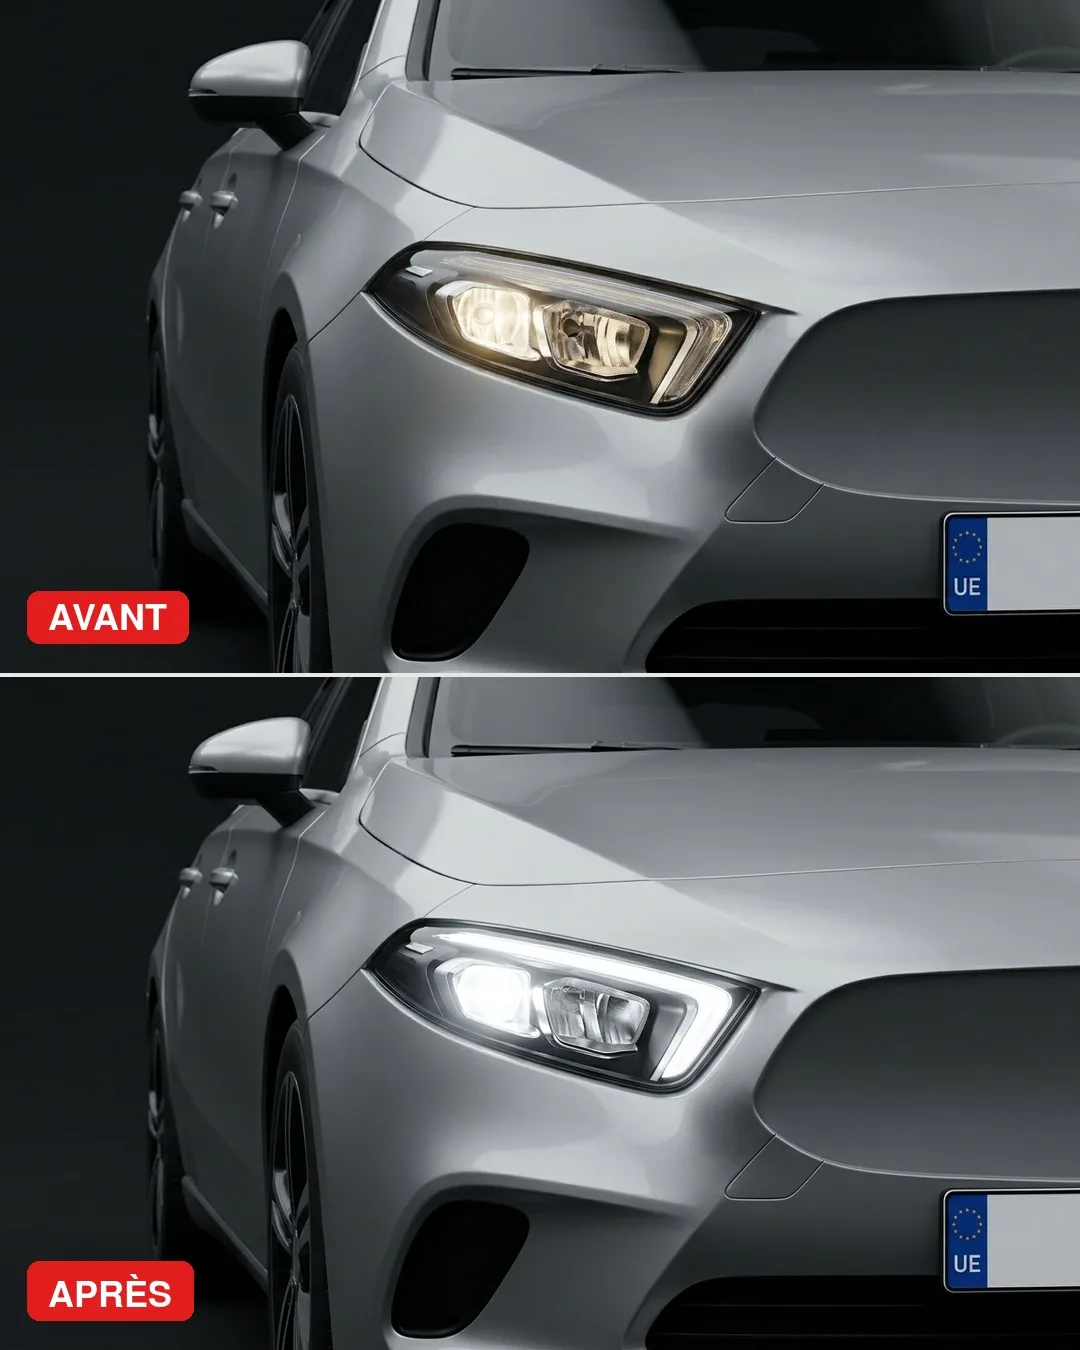
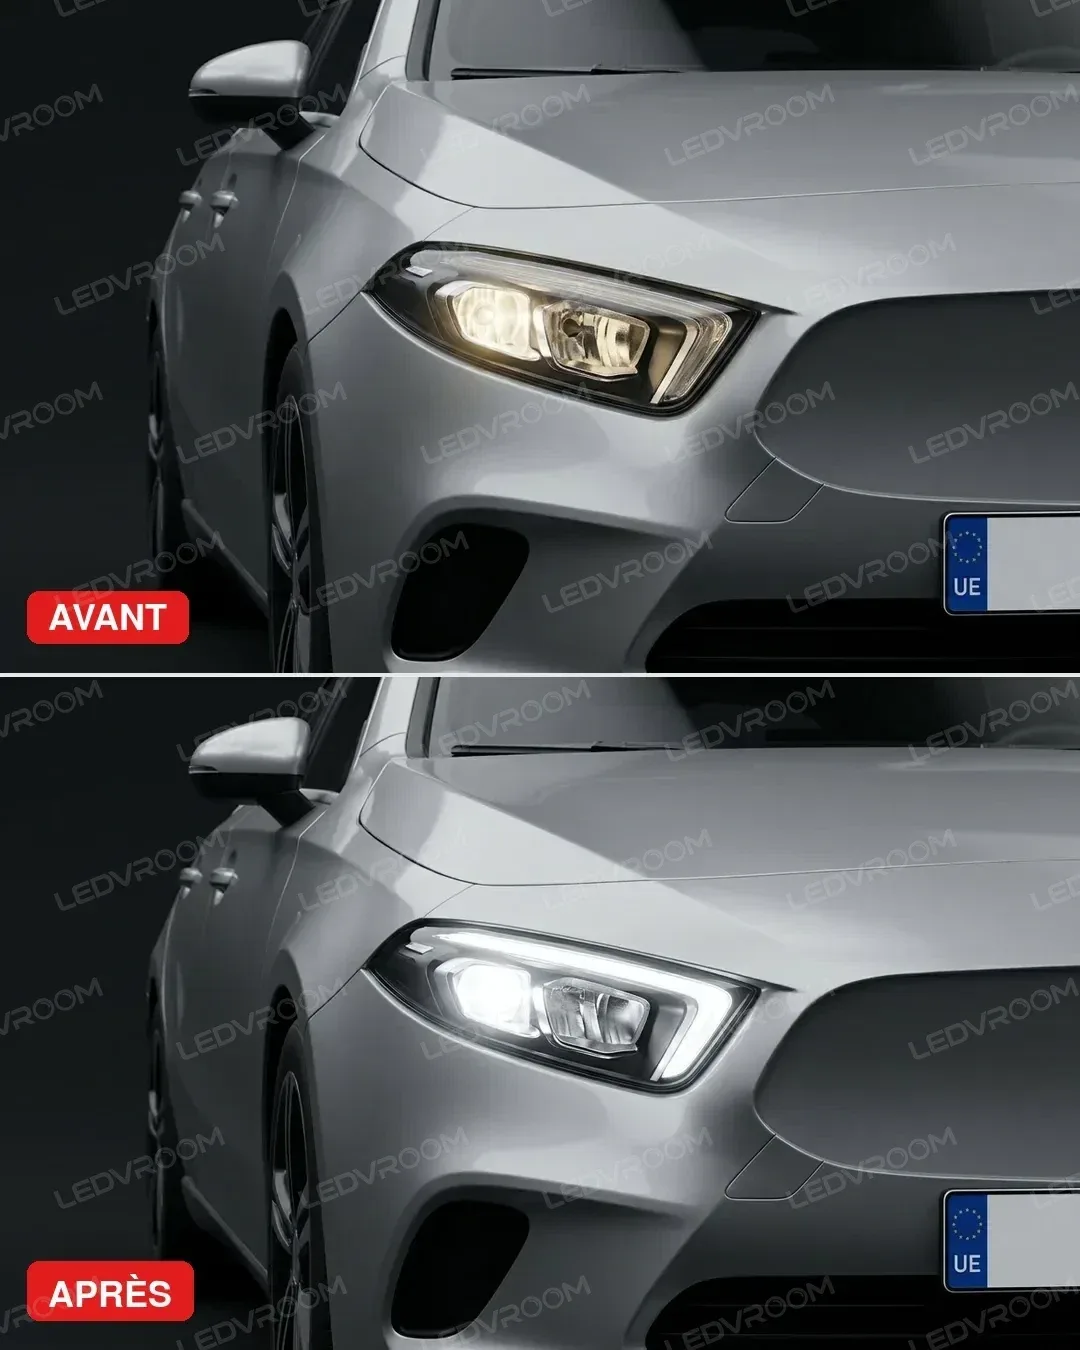
Filigrane LEDVROOM sur les rendus et les visuels sur voiture
Le logo blanc répété en diagonale, à 13 %, sur toute l'image : un
détourage ou un recadrage ne l'enlève pas. Posé sur les rendus (avant /
après, véhicule, gros plan) et les visuels types sur voiture, jamais sur
les photos d'ampoules. « Copyright LEDVROOM » ajouté aux infos du fichier.

- Rendus déjà stockés : filigranés un par un en arrière-plan, puis toutes
  les demi-heures et à chaque ajout depuis le back-office.
- Visuels types : régénérés depuis leurs originaux, gardés hors du dossier
  public (scripts/filigraner-images-types.ts).
- Google Shopping refuse les images filigranées : le flux ne part plus
  qu'avec les photos produit.

Claude-Session: https://claude.ai/code/session_01LngNKaiXAWijw9s65MmzDA

diff --git a/src/lib/storage/filigraner-existants.ts b/src/lib/storage/filigraner-existants.ts
@@ -1,0 +1,119 @@
+import type { PrismaClient } from '@prisma/client'
+import { allegerImage } from './alleger'
+import { driverName, putFile } from './driver'
+
+/**
+ * Pose le filigrane LEDVROOM sur les rendus déjà stockés, un par un.
+ *
+ * Concerne les médias rattachés à une fiche comme « rendu » ou « montage »
+ * (avant / après, véhicule complet, gros plan) : ce sont les images que l'on
+ * veut protéger. Les photos d'ampoules (« le produit », « le contenu du kit »)
+ * n'en reçoivent pas.
+ *
+ * Même façon de faire que l'allègement : la nouvelle version (et ses versions
+ * 480 / 960 px) est déposée à côté, puis la fiche du média pointe dessus, et
+ * `filigraneAt` note que c'est fait. Rejouable, et lancé régulièrement
+ * (instrumentation.ts) pour prendre aussi les rendus ajoutés depuis.
+ */
+function empreinteDeLaCle(cle: string): string | null {
+  return /-([0-9a-f]{12})\.[^/]*$/.exec(cle)?.[1] ?? null
+}
+
+export async function filigranerRendus(
+  prisma: PrismaClient,
+  { pauseMs = 2000, journal = console.log }: { pauseMs?: number; journal?: (l: string) => void } = {},
+): Promise<{ filigranes: number; echecs: number }> {
+  const bilan = { filigranes: 0, echecs: 0 }
+  if (driverName() !== 's3') return bilan
+
+  const echoues = new Set<string>()
+  for (;;) {
+    const media = await prisma.media.findFirst({
+      where: {
+        id: { notIn: [...echoues] },
+        filigraneAt: null,
+        url: { startsWith: 'https://' },
+        mimeType: { in: ['image/jpeg', 'image/png', 'image/webp'] },
+        products: { some: { role: { in: ['RESULT', 'INSTALL'] } } },
+      },
+      orderBy: { createdAt: 'asc' },
+      select: { id: true, url: true, storageKey: true, mimeType: true },
+    })
+    if (!media) break
+
+    try {
+      const reponse = await fetch(media.url, { signal: AbortSignal.timeout(30_000) })
+      if (!reponse.ok) throw new Error(`HTTP ${reponse.status}`)
+      const origine = Buffer.from(await reponse.arrayBuffer())
+      const extension = media.mimeType === 'image/png' ? 'png' : media.mimeType === 'image/webp' ? 'webp' : 'jpg'
+      const image = await allegerImage(origine, media.mimeType, extension, { filigrane: true })
+      const dossier = media.storageKey.includes('/')
+        ? media.storageKey.slice(0, media.storageKey.lastIndexOf('/'))
+        : 'medias'
+      const depose = await putFile({
+        bytes: image.bytes,
+        mimeType: image.mimeType,
+        extension: image.extension,
+        prefix: dossier,
+        // L'empreinte de l'original reste dans la clé : c'est elle qui permet
+        // aux scripts de pose de reconnaître un rendu déjà déposé.
+        ...(empreinteDeLaCle(media.storageKey)
+          ? { empreinte: empreinteDeLaCle(media.storageKey) as string }
+          : { empreinteDe: origine }),
+        variantes: image.variantes,
+      })
+      const maj = await prisma.media.updateMany({
+        where: { id: media.id, storageKey: media.storageKey },
+        data: {
+          url: depose.url,
+          storageKey: depose.key,
+          mimeType: depose.mimeType,
+          sizeBytes: depose.sizeBytes,
+          filigraneAt: new Date(),
+          ...(image.width ? { width: image.width, height: image.height } : {}),
+        },
+      })
+      if (maj.count === 1) bilan.filigranes++
+    } catch (error) {
+      echoues.add(media.id)
+      bilan.echecs++
+      console.error(`[médias] filigrane impossible pour ${media.id}`, error)
+    }
+
+    if ((bilan.filigranes + bilan.echecs) % 50 === 0) {
+      journal(`[médias] ${bilan.filigranes} rendu(s) filigrané(s)`)
+    }
+    await new Promise((fin) => setTimeout(fin, pauseMs))
+  }
+  return bilan
+}
+
+/*
+  Un seul passage à la fois dans ce processus : la reprise périodique et un
+  dépôt depuis le back-office peuvent le demander en même temps.
+*/
+let enCours: Promise<unknown> | null = null
+let redemande = false
+
+/** Lance un passage en arrière-plan (sans attendre), ou en redemande un après celui en cours. */
+export function planifierFiligrane(): void {
+  if (process.env.FILIGRANE_MEDIAS === 'off') return
+  if (enCours) {
+    redemande = true
+    return
+  }
+  enCours = (async () => {
+    try {
+      do {
+        redemande = false
+        const { prisma } = await import('../db')
+        const bilan = await filigranerRendus(prisma)
+        if (bilan.filigranes + bilan.echecs > 0) console.log('[médias] filigrane', bilan)
+      } while (redemande)
+    } catch (error) {
+      console.error('[médias] filigrane interrompu', error)
+    } finally {
+      enCours = null
+    }
+  })()
+}

diff --git a/src/lib/storage/alleger.ts b/src/lib/storage/alleger.ts
@@ -38,25 +38,44 @@ export async function allegerImage(
   bytes: Buffer,
   mimeType: string,
   extension: string,
-  { forcer = false }: { forcer?: boolean } = {},
+  {
+    forcer = false,
+    filigrane = false,
+  }: {
+    forcer?: boolean
+    /** Pose le filigrane LEDVROOM (lib/storage/filigrane.ts) sur la photo et ses versions réduites. */
+    filigrane?: boolean
+  } = {},
 ): Promise<ImageAllegee> {
   const photo = mimeType === 'image/jpeg' || mimeType === 'image/png' || mimeType === 'image/webp'
-  if (!photo || (!forcer && bytes.length <= SEUIL_ALLEGEMENT)) return { bytes, mimeType, extension }
+  if (!photo) return { bytes, mimeType, extension }
+  if (filigrane) {
+    const { filigraner } = await import('./filigrane')
+    bytes = await filigraner(bytes)
+    forcer = true
+  }
+  if (!forcer && bytes.length <= SEUIL_ALLEGEMENT) return { bytes, mimeType, extension }
 
   try {
     const { default: sharp } = await import('sharp')
-    const { data, info } = await sharp(bytes, { limitInputPixels: 60_000_000 })
-      .rotate()
-      .resize({ width: COTE_MAX, height: COTE_MAX, fit: 'inside', withoutEnlargement: true })
+    const { EXIF_LEDVROOM } = await import('./filigrane')
+    const signer = <T extends import('sharp').Sharp>(s: T): T => (filigrane ? (s.withExif(EXIF_LEDVROOM) as T) : s)
+    const { data, info } = await signer(
+      sharp(bytes, { limitInputPixels: 60_000_000 })
+        .rotate()
+        .resize({ width: COTE_MAX, height: COTE_MAX, fit: 'inside', withoutEnlargement: true }),
+    )
       .webp({ quality: 82, effort: 2 })
       .toBuffer({ resolveWithObject: true })
     // Un PNG à aplats peut ressortir plus lourd en WebP : on garde le plus léger.
     if (data.length >= bytes.length && !forcer) return { bytes, mimeType, extension }
+    // (Avec le filigrane, `forcer` est vrai : on ne revient jamais à l'original sans lui.)
     const variantes = await Promise.all(
       LARGEURS_VARIANTES.map(async (largeur) => ({
         largeur,
-        bytes: await sharp(data)
-          .resize({ width: largeur, height: largeur, fit: 'inside', withoutEnlargement: true })
+        bytes: await signer(
+          sharp(data).resize({ width: largeur, height: largeur, fit: 'inside', withoutEnlargement: true }),
+        )
           .webp({ quality: 78, effort: 2 })
           .toBuffer(),
       })),
@@ -70,6 +89,8 @@ export async function allegerImage(
       variantes,
     }
   } catch (error) {
+    // Un échec avec filigrane remonte : rendre la photo sans lui la publierait nue.
+    if (filigrane) throw error
     console.error('[stockage] allègement impossible, fichier gardé tel quel', error)
     return { bytes, mimeType, extension }
   }

diff --git a/src/lib/storage/filigrane.ts b/src/lib/storage/filigrane.ts
@@ -1,0 +1,52 @@
+import { readFile } from 'node:fs/promises'
+import path from 'node:path'
+
+/**
+ * Filigrane LEDVROOM : le logo blanc répété en diagonale sur toute l'image,
+ * à 13 % (choix de l'exploitant, 10 novembre 2026).
+ *
+ * Dans un coin, un filigrane part avec un recadrage ou un détourage de la
+ * voiture sur fond blanc ; répété sur toute l'image, il recouvre aussi le feu
+ * et la carrosserie. Il n'empêche pas une copie, il la rend peu utile.
+ *
+ * Posé sur les rendus (avant / après, véhicule, gros plan), jamais sur les
+ * photos d'ampoules : la boîte LEDVROOM y figure déjà, et Google Shopping
+ * refuse les images filigranées.
+ *
+ * Le motif (`public/marque/filigrane-motif.png`) est dessiné pour une image de
+ * 1 376 px de large, au double de sa taille pour rester net : il est remis à
+ * l'échelle de chaque image, puis répété.
+ */
+const LARGEUR_DE_REFERENCE = 1376
+const ECHELLE_DU_MOTIF = 2
+
+let motif: Promise<Buffer> | null = null
+function lireMotif(): Promise<Buffer> {
+  motif ??= readFile(path.join(process.cwd(), 'public', 'marque', 'filigrane-motif.png'))
+  return motif
+}
+
+/** En ASCII : l'EXIF ne garde pas les caractères accentués ni « © ». */
+export const COPYRIGHT = 'Copyright LEDVROOM - ledvroom.com'
+export const EXIF_LEDVROOM = { IFD0: { Copyright: COPYRIGHT, Artist: 'LEDVROOM' } }
+
+export async function filigraner(bytes: Buffer): Promise<Buffer> {
+  const { default: sharp } = await import('sharp')
+  const image = sharp(bytes, { limitInputPixels: 60_000_000 }).rotate()
+  // Après `rotate()`, une photo prise de côté échange largeur et hauteur :
+  // on lit donc la taille sur l'image redressée.
+  const base = await image.toBuffer({ resolveWithObject: true })
+  const W = base.info.width
+  const echelle = W / LARGEUR_DE_REFERENCE / ECHELLE_DU_MOTIF
+  const brut = await lireMotif()
+  const meta = await sharp(brut).metadata()
+  const tuile = await sharp(brut)
+    .resize(Math.max(8, Math.round((meta.width ?? 621) * echelle)))
+    .png()
+    .toBuffer()
+  return sharp(base.data)
+    .composite([{ input: tuile, tile: true, blend: 'over' }])
+    .withExif(EXIF_LEDVROOM)
+    .webp({ quality: 90, effort: 2 })
+    .toBuffer()
+}

diff --git a/src/lib/images-types.ts b/src/lib/images-types.ts
@@ -24,8 +24,9 @@
  *   « Visuel d'illustration ») et légende « véhicule non représentatif ».
  * - **Moto : seulement la photo des ampoules.** Les avant / après et la
  *   route montrent une voiture : jamais sur une fiche moto.
- * - **Google Shopping ne reçoit jamais l'avant / après** (texte « AVANT /
- *   APRÈS » sur l'image, refusé par Google) : voir `imagesTypesPourLeFlux`.
+ * - **Google Shopping ne reçoit que la photo du produit** : les visuels sur
+ *   voiture portent le filigrane LEDVROOM (et l'avant / après du texte), que
+ *   Google refuse. Voir `imagesTypesPourLeFlux`.
  *
  * Les fichiers sont dans `public/images-types/`.
  */
@@ -175,8 +176,9 @@ export function couvertureType(produit: ProduitMinimal): { url: string; alt: str
 
 /** Pour Google Shopping : seulement les images sans texte, la photo produit d'abord. */
 export function imagesTypesPourLeFlux(produit: ProduitMinimal): string[] {
+  // Seulement la photo du produit : les visuels sur voiture portent le
+  // filigrane LEDVROOM, refusé par Google Shopping.
   return imagesTypes(produit)
-    .filter((image) => image.sansTexte)
-    .sort((a, b) => (a.role === 'PRODUCT' ? -1 : b.role === 'PRODUCT' ? 1 : 0))
+    .filter((image) => image.sansTexte && image.role === 'PRODUCT')
     .map((image) => image.url)
 }

diff --git a/src/app/flux/google-shopping.xml/route.ts b/src/app/flux/google-shopping.xml/route.ts
@@ -42,7 +42,9 @@ const SELECTION = {
     select: { category: { select: { name: true, parent: { select: { name: true } } } } },
   },
   media: {
-    where: { role: { in: ['RESULT', 'PRODUCT', 'KIT_CONTENT'] as Array<'RESULT' | 'PRODUCT' | 'KIT_CONTENT'> } },
+    // Pas les rendus : ils portent le filigrane LEDVROOM, que Google Shopping
+    // refuse (lib/storage/filigrane.ts). Le flux part avec les photos produit.
+    where: { role: { in: ['PRODUCT', 'KIT_CONTENT'] as Array<'PRODUCT' | 'KIT_CONTENT'> } },
     orderBy: { position: 'asc' as const },
     select: { role: true, media: { select: { url: true } } },
   },
@@ -120,9 +122,8 @@ function lirePaquet(apres: string | null) {
 
 function versArticle(produit: ProduitLu, periode: Periode | undefined): ArticleFlux {
   const categorie = produit.categories[0]?.category
-  // La couverture d'abord, comme partout ailleurs sur le site : le rendu
-  // (feu allumé sur le véhicule), puis le produit, puis le contenu du kit.
-  const ordre = ['RESULT', 'PRODUCT', 'KIT_CONTENT']
+  // Le produit, puis le contenu du kit (les rendus filigranés n'y vont pas).
+  const ordre = ['PRODUCT', 'KIT_CONTENT']
   const images = [...produit.media]
     .sort((a, b) => ordre.indexOf(a.role) - ordre.indexOf(b.role))
     .map((entree) => entree.media.url)

diff --git a/scripts/filigraner-images-types.ts b/scripts/filigraner-images-types.ts
@@ -1,0 +1,31 @@
+/**
+ * Pose le filigrane LEDVROOM sur les visuels types sur voiture
+ * (`public/images-types/`, sauf les photos `produit-*`).
+ *
+ * Les originaux sans filigrane sont gardés dans `assets/images-types-originaux/`
+ * (hors du dossier public) : le script repart toujours d'eux, on peut donc le
+ * relancer sans doubler le filigrane.
+ *
+ *   npx tsx scripts/filigraner-images-types.ts
+ */
+import { readdir, readFile, writeFile } from 'node:fs/promises'
+import path from 'node:path'
+import sharp from 'sharp'
+import { COPYRIGHT, filigraner } from "../src/lib/storage/filigrane"
+
+const ORIGINAUX = path.join(process.cwd(), 'assets', 'images-types-originaux')
+const PUBLIC = path.join(process.cwd(), 'public', 'images-types')
+
+async function main() {
+for (const nom of (await readdir(ORIGINAUX)).filter((n) => n.endsWith('.webp'))) {
+  const marque = await filigraner(await readFile(path.join(ORIGINAUX, nom)))
+  // Même format et même poids qu'avant : WebP, qualité 82.
+  const sortie = await sharp(marque).webp({ quality: 82, effort: 4 }).withExif({
+    IFD0: { Copyright: COPYRIGHT, Artist: 'LEDVROOM' },
+  }).toBuffer()
+  await writeFile(path.join(PUBLIC, nom), sortie)
+  console.log(nom, `${Math.round(sortie.length / 1024)} ko`)
+}
+}
+
+void main()

diff --git a/src/lib/storage/driver.ts b/src/lib/storage/driver.ts
@@ -119,6 +119,8 @@ export async function putFile(options: {
    * est déjà la version allégée (allègement des médias existants).
    */
   empreinteDe?: Buffer
+  /** Empreinte déjà connue (12 caractères), reprise d'une clé existante. */
+  empreinte?: string
   /** Versions réduites déjà calculées (bytes déjà allégés). */
   variantes?: Array<{ largeur: number; bytes: Buffer }>
 }): Promise<StoredFile> {
@@ -131,10 +133,12 @@ export async function putFile(options: {
   const allegee = options.variantes
     ? { bytes: options.bytes, mimeType: options.mimeType, extension: options.extension, variantes: options.variantes }
     : await allegerImage(options.bytes, options.mimeType, options.extension)
-  const digest = createHash('sha256')
-    .update(options.empreinteDe ?? options.bytes)
-    .digest('hex')
-    .slice(0, 12)
+  const digest =
+    options.empreinte ??
+    createHash('sha256')
+      .update(options.empreinteDe ?? options.bytes)
+      .digest('hex')
+      .slice(0, 12)
   const key = `${options.prefix ?? 'medias'}/${randomUUID()}-${digest}.${allegee.extension}`
 
   const deposer = (cle: string, contenu: Buffer, type: string) =>

diff --git a/tests/images-types.test.ts b/tests/images-types.test.ts
@@ -43,10 +43,9 @@ describe('images types par emplacement', () => {
     expect(couvertureType(moto)?.url).toBe('/images-types/produit-led-haute-puissance.webp')
   })
 
-  it("Google Shopping : jamais d'image avec du texte, la photo produit d'abord", () => {
+  it("Google Shopping : seulement la photo produit (ni texte ni filigrane)", () => {
     expect(imagesTypesPourLeFlux({ slug: 'pack-led-veilleuses-audi-a3', name: 'Pack LED veilleuses' })).toEqual([
       '/images-types/produit-led-w5w.webp',
-      '/images-types/veilleuses-apres.webp',
     ])
     expect(imagesTypesPourLeFlux({ slug: 'pack-led-phares-audi-a3', name: 'Pack LED phares' })).toEqual([
       '/images-types/produit-led-haute-puissance.webp',

diff --git a/src/lib/actions/admin-product-media.ts b/src/lib/actions/admin-product-media.ts
@@ -1,6 +1,7 @@
 'use server'
 
 import { revalidatePath } from 'next/cache'
+import { planifierFiligrane } from '../storage/filigraner-existants'
 import { z } from 'zod'
 import { prisma } from '../db'
 import { requireStaff, audit } from '../admin/guard'
@@ -86,6 +87,8 @@ async function rafraichir(productId: string): Promise<void> {
   revalidatePath(`/admin/catalogue/${productId}`)
   revalidatePath('/admin/medias')
   if (produit) revalidatePath(`/p/${produit.slug}`)
+  // Un rendu ajouté ou passé au rôle « rendu » reçoit son filigrane tout de suite.
+  planifierFiligrane()
 }
 
 /** Position suivante, à la fin du groupe de rôle visé. */

diff --git a/src/instrumentation.ts b/src/instrumentation.ts
@@ -32,6 +32,11 @@ export async function register() {
         } catch (error) {
           console.error('[médias] allègement interrompu', error)
         }
+        // Puis le filigrane des rendus (lib/storage/filigraner-existants.ts),
+        // repris toutes les demi-heures pour les rendus ajoutés depuis.
+        const { planifierFiligrane } = await import('./lib/storage/filigraner-existants')
+        planifierFiligrane()
+        setInterval(planifierFiligrane, 30 * 60 * 1000).unref()
       })()
     }, 3 * 60 * 1000).unref()
   }
